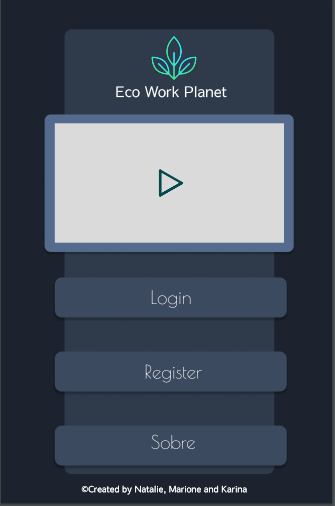
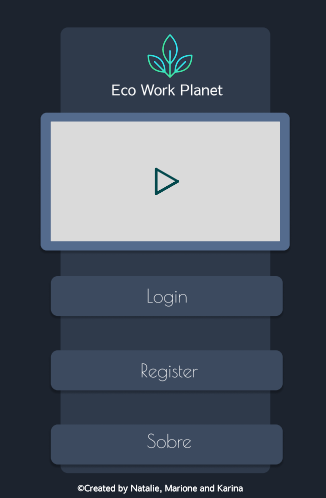
add imagens finais no readme

diff --git a/src/Home/home.css b/src/Home/home.css
@@ -11,10 +11,7 @@ body {
   height: 100vh;
 }
 
-/* img.logo {
 
-
-} */
 #container-video iframe{
  border: solid 10px #212730;
  width: 310px;
@@ -56,14 +53,7 @@ body {
   color: var(--font-color);
 }
 
-/* .name-page {
-  font-size: 2rem;
-  text-align: center;
-  color:var(--font-color);
-  width: 100%;
-  height: 3.3rem;
 
-} */
 
 video {
   width: 90%;
@@ -71,13 +61,6 @@ video {
 
 }
 
-/* .footer {
-  text-align: center;
-  font-size: 1rem;
-  color: var(--font-color);
-  margin: 34% 7% 8% 5%;
-  /* top left bottom right*/
- 
 
 
 a {
@@ -94,88 +77,3 @@ a {
     height: 180px;
    }
 }
-/* 
-@media (max-width:600px) {
-  .name-page {
-    font-size: 1.5rem;
-  }
-
-}
-
-@media (min-width:500px) and (max-width:600px) {
-  /* .footer {
-    margin: 45% 7% 8% 5%;
-  } */
-
-
-/* @media (min-width:601px) and (max-width:768px) {
-  /* .footer {
-    font-size: 1.5rem;
-    margin: 50% 9% 10% 7%;
-    text-align: center;
-  } */
-/* 
-  .home-title {
-    font-size: 1.7rem;
-  } */
-
-
-/* @media (min-width:769px) and (max-width:1000px) {
-  .footer {
-    font-size: 1.5rem;
-    margin: 56% 9% 9% 5%;
-  }
-
-  video {
-    width: 75%;
-    margin: 8rem;
-  }
-
-  .home-title {
-    line-height: 5rem;
-  }
-} */
-
-/* @media (min-width:1024px) and (max-width:1920px) { */
-  /* .home-main {
-    width: 68%;
-    height: 165rem;
-  } */
-
-  /* .footer {
-    font-size: 3rem;
-    margin: 98% 0% 9% 0%;
-  } */
-
-  /* #root {
-    height: 70rem;
-
-  }
-
-  video {
-    margin: 10% 0% 38% 0%;
-    height: 44rem;
-
-  } */
-
-  /* top left bottom right*/
-
-/* .link-pages {
-  font-size: 2rem;
-  padding: 2.5rem;
-  margin: 0% 0% 5% 0%;
-  width: 70%;
-} */
-/* }.home-title {
-  font-size: 3rem;
-  margin-bottom: 4rem;
-}
-.name-page {
-  font-size: 8rem;
-  width: 100%;
-  height: 10.3rem;
-/* }img.logo {
-  margin-top: 16rem;
-  height: 12rem;
-} */ 
-

diff --git a/src/login/login.js b/src/login/login.js
@@ -7,17 +7,17 @@ export const login = () => {
   const containerLogin = document.createElement('div');
   containerLogin.setAttribute('class', 'container-login');
   const templateLogin = `
-  <form class="form-login">
+  <form class='form-login'>
   <p class='paragraph'>Login</p>
   <span class='error-login'></span>
-  <input type="email" name="email" class="email-input input-users" placeholder="Preencha com o e-mail" autocomplete required /><br>
-  <input type="password" name="password" class="password-input input-users" placeholder="Preencha com a senha" required /><br>
-  <button class='btn-submit' type="submit">Entrar</button><br>
-  <button class="btn-google"><img src="img/google.png" alt="botão Google">Efetuar login com o Google
+  <input type='email' name='email' class='email-input input-users' placeholder='Preencha com o e-mail' autocomplete required /><br>
+  <input type='password'name='password' class='password-input input-users' placeholder='Preencha com a senha' required /><br>
+  <button class='btn-submit' type='submit'>Entrar</button><br>
+  <button class='btn-google'><img src='img/google.png' alt='botão Google'>Efetuar login com o Google
   </button><br>
 </form>
 </section>
- <a href="#register"> <p class ='signup'>Clique aqui para se cadastrar</p></a> 
+ <a href='#register'> <p class ='signup'>Clique aqui para se cadastrar</p></a> 
   
   `;
   containerLogin.appendChild(componentHeader());

diff --git a/src/index.html b/src/index.html
@@ -6,6 +6,7 @@
     <meta name="viewport" content="width=device-width, initial-scale=1.0" />
     <link rel="stylesheet" href="about/about.css" />
     <link rel="stylesheet" href="feed/feed.css" />
+    <link rel="stylesheet" href="pages-components/Styles/footer.css" />
     <link rel="stylesheet" href="" />
     <link rel="stylesheet" href="pages-components/Styles/header.css" />
     <link rel="stylesheet" href="Home/home.css" />
@@ -13,11 +14,16 @@
     <link rel="stylesheet" href="not-found/notfound.css" />
     <link rel="stylesheet" href="register/register.css" />
     <link rel="stylesheet" href="pages-components/Styles/Variables.Css" />
+    <link rel="stylesheet" href="pages-components/Styles/Variables.Css" />
     <link rel="stylesheet" href="" id="stylePages" />
-    <link rel="icon" type="image/x-icon" href="img/eco_work_planet_Logotipo-removebg-preview 1.png">
+    <link
+      rel="icon"
+      type="image/x-icon"
+      href="img/eco_work_planet_Logotipo-removebg-preview 1.png"
+    />
     <title>Eco Work Planet</title>
   </head>
-  
+
   <body>
     <main id="root"></main>
     <script src="routes/main.js" type="module"></script>

diff --git a/src/feed/feed.js b/src/feed/feed.js
@@ -11,16 +11,19 @@ export const timeline = () => {
   const templateFeed = `
  
   <main class='container-geral'>
+  <section id='perfil-section'>
+  <div id='info-user'>
+  <button id='btn-logout' class='btn-logout'>sair</button>
+  <a href='#about'></a></div>
   </section>
-  <section id='perfil-section'><div id="info-user"><button id='btn-logout' class='btn-logout'>sair</button><a href='#about'></a></div></section>
-  <span id="feedback" class='feedback'></span>
-  <div id="post-and-profile">
+  <span id='feedback' class='feedback'></span>
+  <div id='post-and-profile'>
     <section class='area-post'>
-      <textarea  id="textpost"class='message'  maxlength='300' rows='10' placeholder='o que você está pensando?'></textarea> 
+      <textarea  id='textpost'class='message'  maxlength='300' rows='10' placeholder='o que você está pensando?'></textarea> 
       <button  id='btn-post' class='btn-post'>Postar</button>
+      </section>
   </div>
-      <div class='btn-publicar'>
-      </div>
+     
     <div class='posts'>
     <div  id='new-post' class='new-post'></div>
     <div  id='all-posts' class='all-posts'></div>

diff --git a/src/feed/feed.css b/src/feed/feed.css
@@ -135,8 +135,10 @@ textarea{
 
 #btn-delete, #btn-edit{
   background-color: #1C232E;
+  color: #dadada;
   padding: 10px;
   border-radius:10px;
+  margin: 1rem;
 }
 button img{
   width: 30px;
@@ -239,5 +241,38 @@ button img{
     width: 18vw;
     height: 5vh;
     top: 38px
+   }.area-post{
+     margin-top: 215px;
    }
+}
+.user-email,.info-date{
+  font-size: 1rem;
+  text-align: center;
+  margin: 3%;
+}
+
+@media (min-width:768px) and (max-width:900px) {
+ .style-header{
+  margin-top: 85rem;
+}.area-post{
+  margin-top: 0px;
+}#post-and-profile {
+ margin-top:0px;
+  
+}.container-geral{
+  margin-top: 4rem;
+}
+}
+
+@media (min-width:901px) and (max-width:1024px) {
+
+.style-header{
+  margin-top:100rem;
+}#textpost {
+  width: 75%;
+  height: 28rem;
+}textarea {
+  width: 35rem;
+  height: 17rem;
+ }
 }

diff --git a/src/pages-components/Styles/Variables.Css b/src/pages-components/Styles/Variables.Css
@@ -5,22 +5,16 @@
     margin: 0;
     border: 0;  
     font-family: var(--main-font);
-    font-style: normal;
-  }
-  .style-footer{
-    display: flex;
-    flex-direction: row;
-    align-items: center;
-    justify-content: center;
-    color: white;
-  }
+    font-style: normal; 
+  
+}
   header{
     display: flex;
     justify-content: center;
     align-items: center;
     flex-direction: column;
     margin-top: 40%;
-    margin-bottom: 10%;
+    margin-bottom: 0rem;
   }
   header h2{
     text-align: center;

diff --git a/src/pages-components/Styles/footer.css b/src/pages-components/Styles/footer.css
@@ -1,8 +1,12 @@
-@import '../Styles/reset-default.css';
+
 @import '../Styles/Variables.Css';
-#style-footer{
- display: flex;
- text-align: center;
- justify-content:center;
- align-items: center;
+.style-footer{
+  display: flex;
+  text-align: center;
+  flex-direction: row;
+  align-items: center;
+  justify-content: center;
+  color: white;
+  height: 5%;
+  font-size: 1rem;
 }

diff --git a/README.md b/README.md
@@ -21,7 +21,7 @@
 
 ---
 
-Com tantos acontecimentos como, aquecimento global, queimadas, derretimento de geleiras, calor excessivo, frio excessivo e muitos outros fatores naturais, diversas as pessoas e empresas estão mais preocupadas com o meio ambiente e com a forma que estamos vivendo, para evitar e acabar com catástrofes naturais que são resultantes da ação dos próprios humanos. A partir disso surgiu a ideia de fazer a [Eco Work Planet](https://pt.wikipedia.org/wiki/Empanada), que tem como objetivo principal ser uma rede social para pessoas interessadas no assunto, levantar o debate sobre assuntos voltados a vida sustentável, como alimentação sustentável, descarte adequado do lixo, proteção aos animais, entre outros assuntos ligados ao tema.Você pode acessar a aplicação clicando <a href="https://natalieiss.github.io/SAP007-social-network/">AQUI</a>
+Com tantos acontecimentos como, aquecimento global, queimadas, derretimento de geleiras, calor excessivo, frio excessivo e muitos outros fatores naturais, diversas as pessoas e empresas estão mais preocupadas com o meio ambiente e com a forma que estamos vivendo, para evitar e acabar com catástrofes naturais que são resultantes da ação dos próprios humanos. A partir disso surgiu a ideia de fazer a [Eco Work Planet](https://natalieiss.github.io/SAP007-social-network/), que tem como objetivo principal ser uma rede social para pessoas interessadas no assunto, levantar o debate sobre assuntos voltados a vida sustentável, como alimentação sustentável, descarte adequado do lixo, proteção aos animais, entre outros assuntos ligados ao tema.Você pode acessar a aplicação clicando <a href="https://natalieiss.github.io/SAP007-social-network/">AQUI</a>
 
 ---
 
@@ -165,19 +165,14 @@ Com base nas pesquisas chegamos nas seguintes histórias de usuários:
 
 ### Protótipo de baixa fidelidade
 
-Então depois disso fizemos o protótipo de alta fidelidade no
-figma, que possibilitou a simulação do resultado da aplicação. Nossa intenção foi fazer uma interface simples, amigável e escolhemos cores que lembrasse o meio ambiente. E este foi o resultado final da tela de cadastro versão desktop e versão mobile ...
+Abaixo o protótipo de alta fidelidade da página home versão mobile que foi desenhado na ferramenta
+figma, que possibilitou a simulação do resultado da aplicação. Nossa intenção foi fazer uma interface simples, amigável e escolhemos cores que lembrasse o meio ambiente.
 
-
-## ![alta fidelidade](./src/img/img-readme/cadastro.png)
-
-
-## ![alta fidelidade](./src/img/img-readme/cadastro.png)
-
+## ![alta fidelidade](./src/img/img-readme/home-mobile.png)
 
 Paleta de cores
 
-## ![alta fidelidade](./src/img/img-readme/paleta.png)
+## ![cores](./src/img/img-readme/paleta.png)
 
 ---
 
